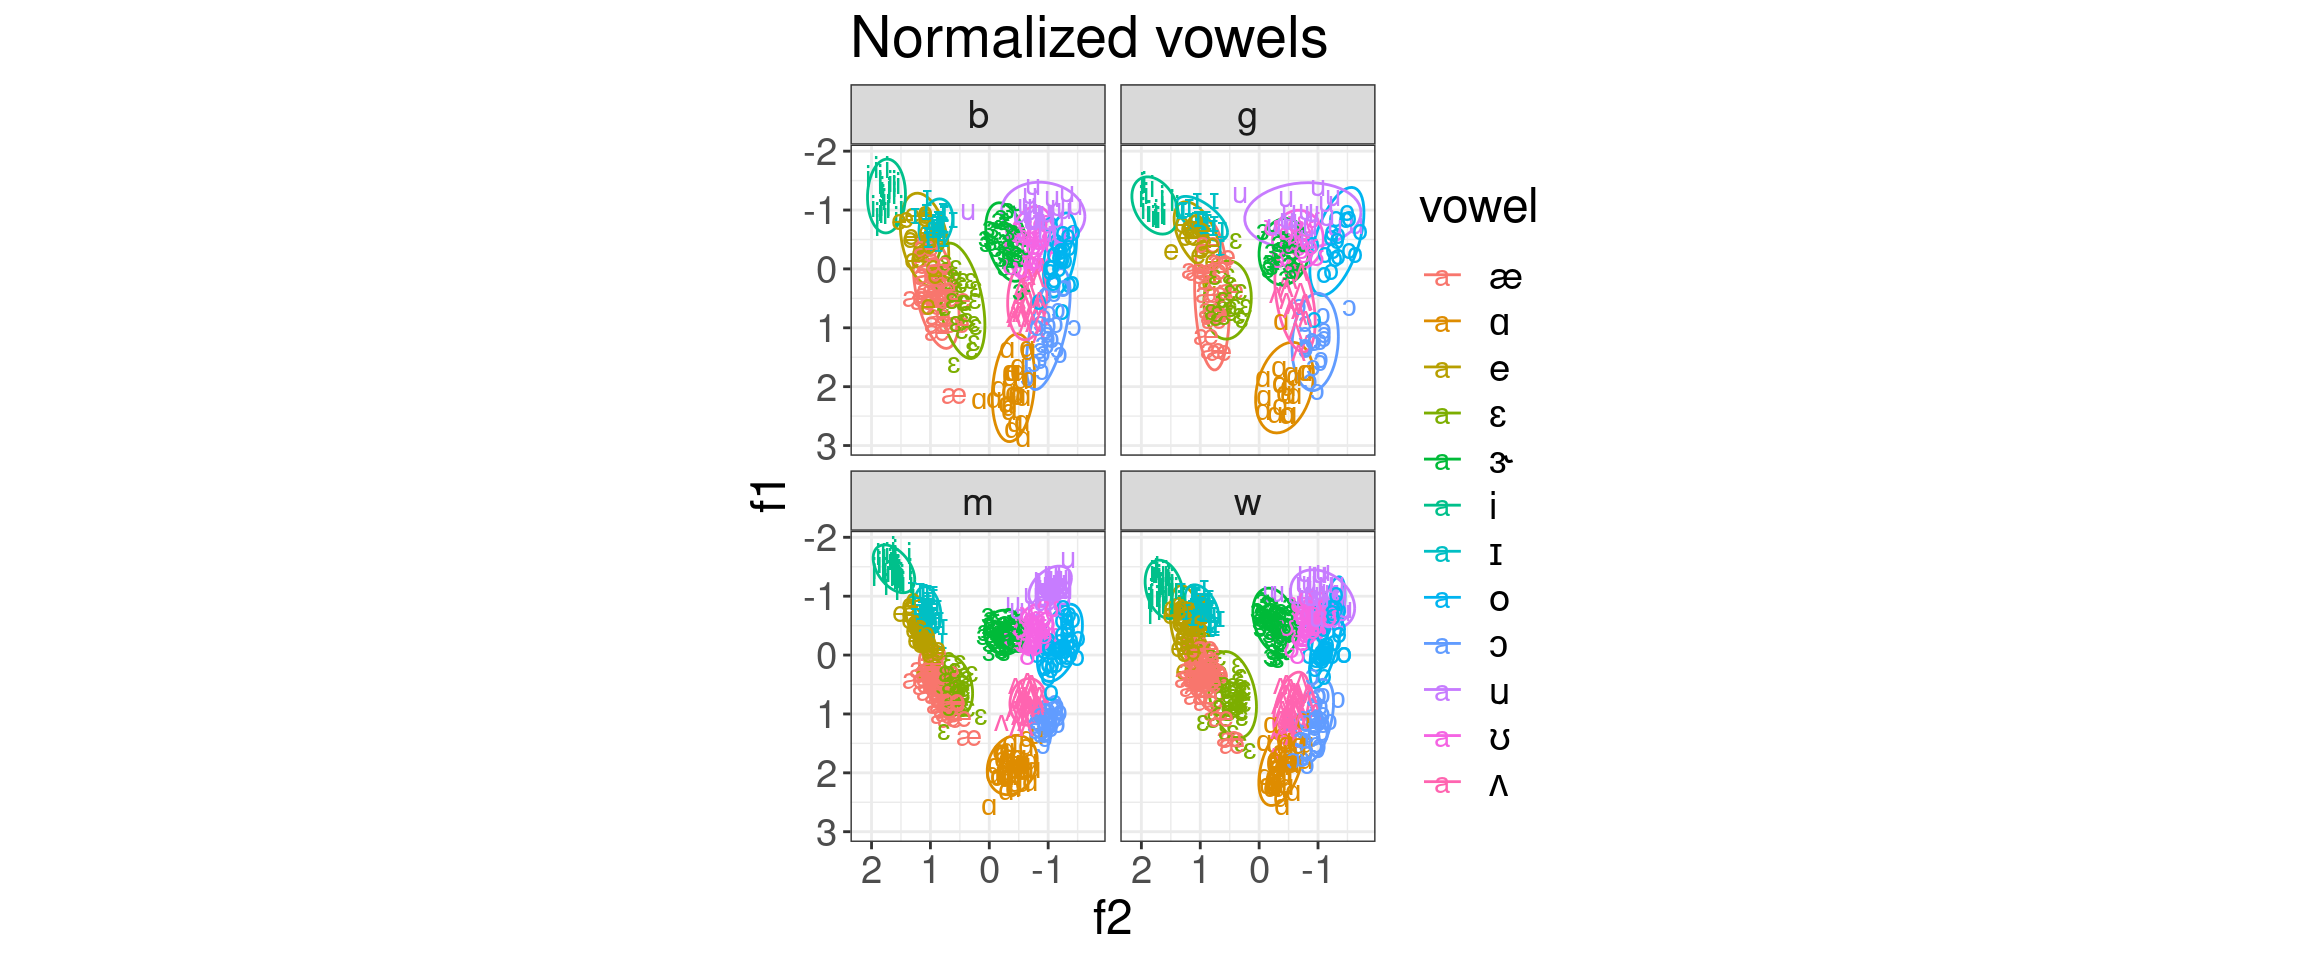
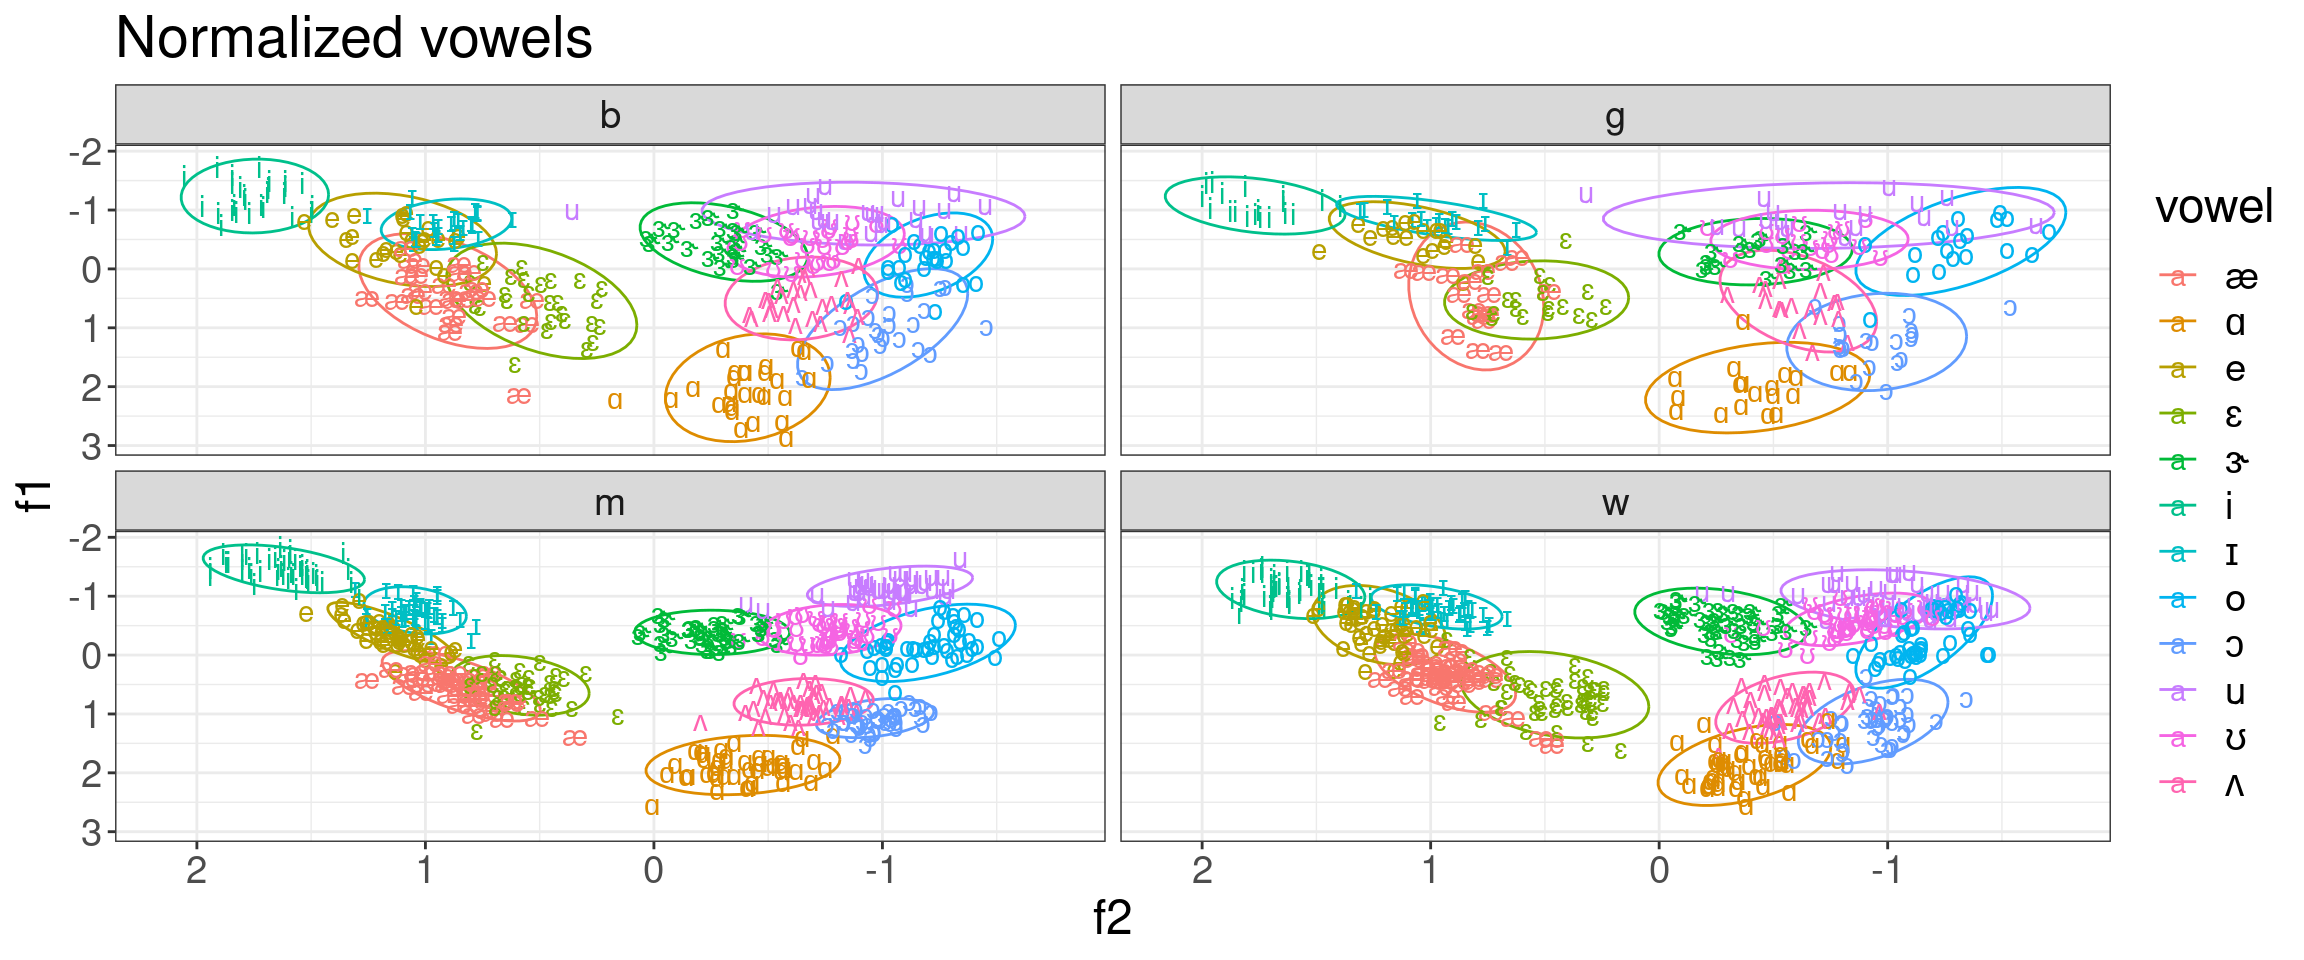
add scale

diff --git a/docs/r-packages-for-phonetics.html b/docs/r-packages-for-phonetics.html
@@ -583,9 +583,8 @@ div.csl-indent {
 <span id="cb35-19"><a href="r-packages-for-phonetics.html#cb35-19" aria-hidden="true" tabindex="-1"></a>  <span class="fu">geom_text</span>()<span class="sc">+</span></span>
 <span id="cb35-20"><a href="r-packages-for-phonetics.html#cb35-20" aria-hidden="true" tabindex="-1"></a>  <span class="fu">scale_x_reverse</span>()<span class="sc">+</span></span>
 <span id="cb35-21"><a href="r-packages-for-phonetics.html#cb35-21" aria-hidden="true" tabindex="-1"></a>  <span class="fu">scale_y_reverse</span>()<span class="sc">+</span></span>
-<span id="cb35-22"><a href="r-packages-for-phonetics.html#cb35-22" aria-hidden="true" tabindex="-1"></a>  <span class="fu">coord_fixed</span>()<span class="sc">+</span></span>
-<span id="cb35-23"><a href="r-packages-for-phonetics.html#cb35-23" aria-hidden="true" tabindex="-1"></a>  <span class="fu">facet_wrap</span>(<span class="sc">~</span>type)<span class="sc">+</span></span>
-<span id="cb35-24"><a href="r-packages-for-phonetics.html#cb35-24" aria-hidden="true" tabindex="-1"></a>  <span class="fu">labs</span>(<span class="at">title =</span> <span class="st">&quot;Normalized vowels&quot;</span>)</span></code></pre></div>
+<span id="cb35-22"><a href="r-packages-for-phonetics.html#cb35-22" aria-hidden="true" tabindex="-1"></a>  <span class="fu">facet_wrap</span>(<span class="sc">~</span>type)<span class="sc">+</span></span>
+<span id="cb35-23"><a href="r-packages-for-phonetics.html#cb35-23" aria-hidden="true" tabindex="-1"></a>  <span class="fu">labs</span>(<span class="at">title =</span> <span class="st">&quot;Normalized vowels&quot;</span>)</span></code></pre></div>
 <p><img src="2022_instrumental_phonetics_files/figure-html/unnamed-chunk-25-1.png" width="1152" /></p>
 <p>If you will use the package it make sense to cite it:</p>
 <div class="sourceCode" id="cb36"><pre class="sourceCode r"><code class="sourceCode r"><span id="cb36-1"><a href="r-packages-for-phonetics.html#cb36-1" aria-hidden="true" tabindex="-1"></a><span class="fu">citation</span>(<span class="st">&quot;phonTools&quot;</span>)</span></code></pre></div>
